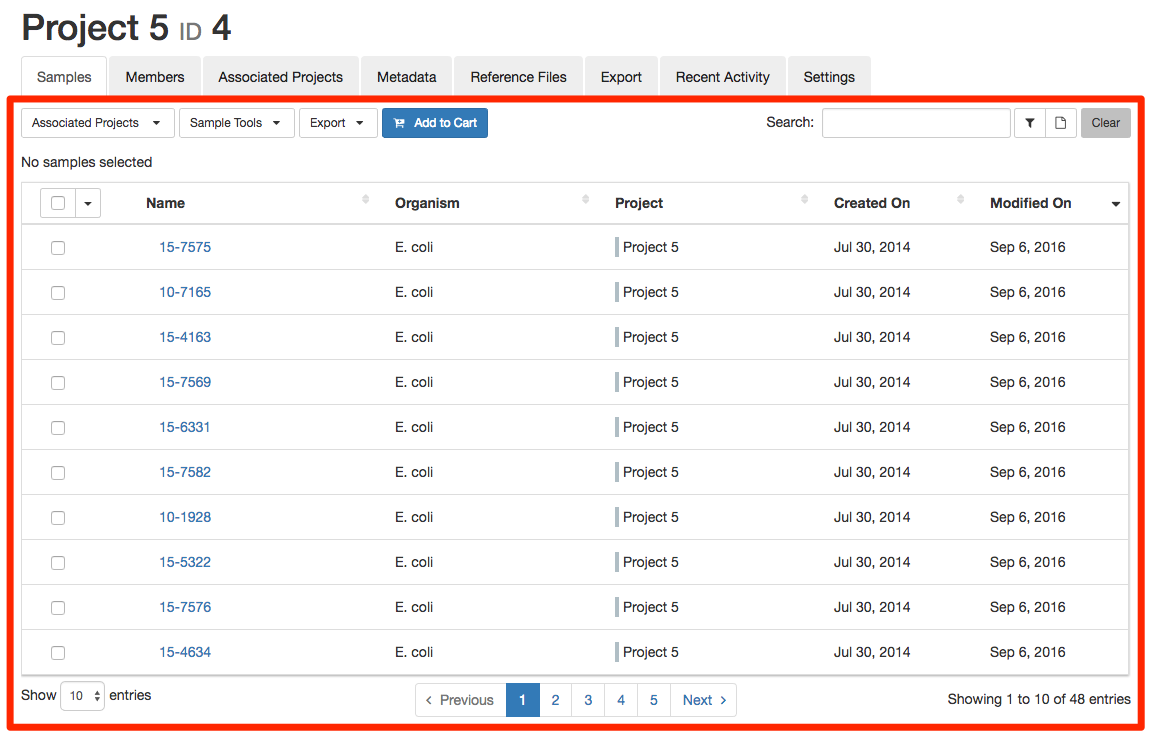
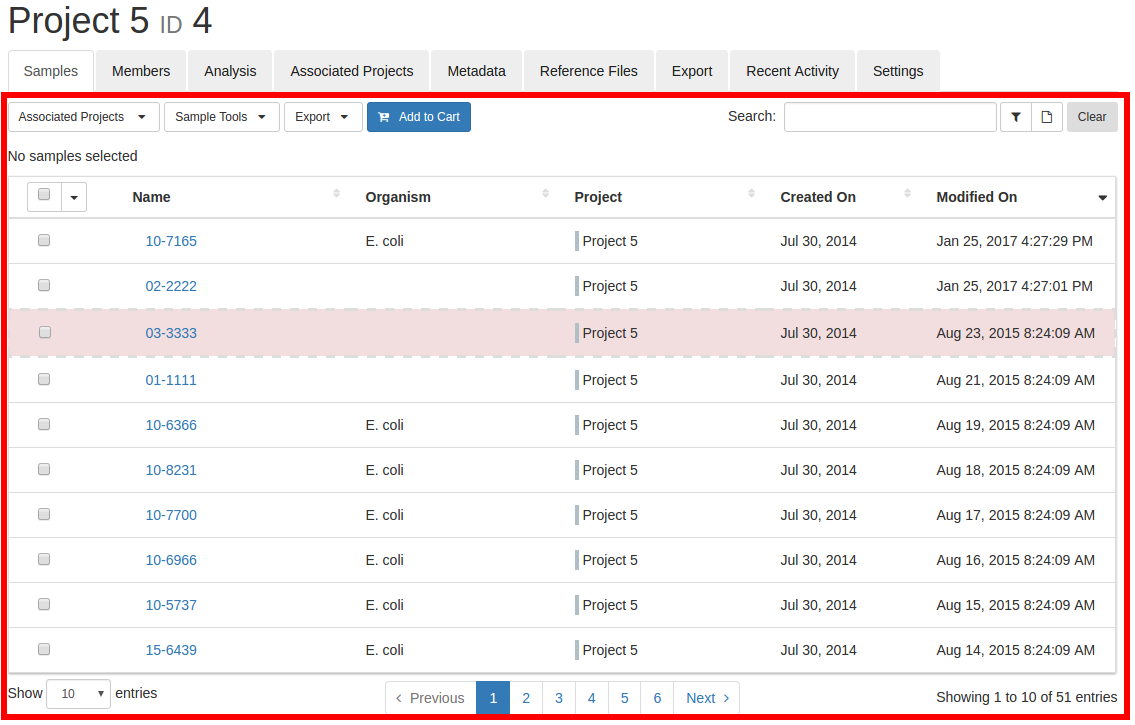
added qc info to docs

Changed region(s): [[0.0, 0.0, 1.0, 1.0]]

diff --git a/doc/user/user/samples/index.md b/doc/user/user/samples/index.md
@@ -25,6 +25,7 @@ The samples listing shows high-level sample details, such as:
 * The name of the person who collected the sample (if provided),
 * The project that the sample belongs to (if from a related project),
 * The date that the sample was created in IRIDA.
+* Whether the sample failed IRIDA's QC checks.  If a sample has failed QC, the cell will have a red background with dashed border: <span style="background-color: #f2dede; border-style: dashed; border-color: grey;">Example</span>.
 
 ### Viewing individual sample details
 

diff --git a/doc/_includes/tutorials/common/samples/view-sequence-files.md b/doc/_includes/tutorials/common/samples/view-sequence-files.md
@@ -11,3 +11,7 @@ Single-end files will appear in the sample alone:
 Paired-end files will appear in a pair:
 
 ![Paired-end sequencing file.]({{ site.baseurl }}/images/tutorials/common/samples/sample-sequence-file-paired-end.png)
+
+Quality control information for a sequence file may appear below the file:
+
+![File QC]({{ site.baseurl }}/images/tutorials/common/samples/sequence-file-qc.png)
